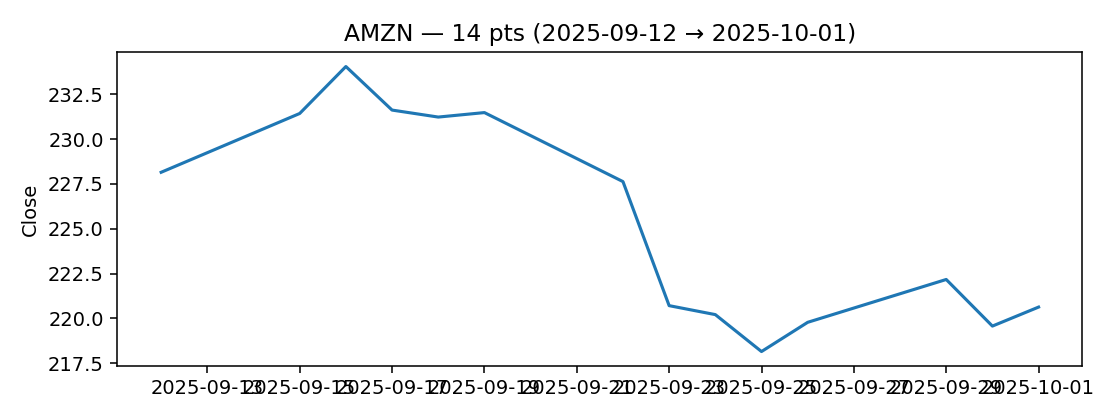
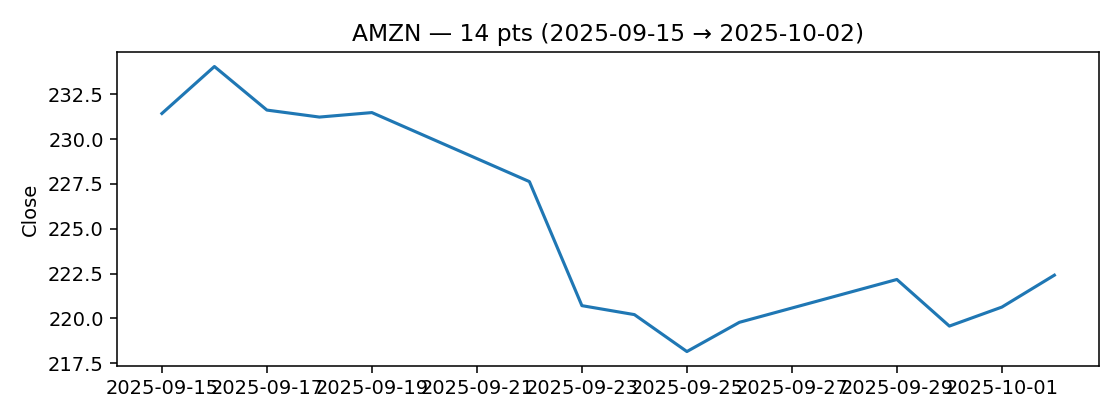
chore: update daily report 2025-10-03 09:01

diff --git a/docs/daily_report.html b/docs/daily_report.html
@@ -108,7 +108,7 @@
   <header>
     <div>
       <h1>Daily Study & News Companion</h1>
-      <div class="sub">2025-10-02 08:25 · TZ: CST</div>
+      <div class="sub">2025-10-03 08:18 · TZ: CST</div>
     </div>
     <button class="btn" id="themeBtn">🌓 Tema</button>
   </header>
@@ -150,8 +150,8 @@
           </div>
           <div class="mkt-body">
             <div class="metrics-row">
-          <div class="kv"><span>Last</span><b>220.63</b></div>
-          <div class="kv"><span>d/d</span><b class="down">-3.30%</b></div>
+          <div class="kv"><span>Last</span><b>222.41</b></div>
+          <div class="kv"><span>d/d</span><b class="down">-3.90%</b></div>
           <div class="kv"><span>Mín</span><b>218.15</b></div>
           <div class="kv"><span>Máx</span><b>234.05</b></div>
           <div class="kv"><span>σ</span><b>5.56</b></div>
@@ -167,11 +167,11 @@
           </div>
           <div class="mkt-body">
             <div class="metrics-row">
-          <div class="kv"><span>Last</span><b>519.71</b></div>
-          <div class="kv"><span>d/d</span><b class="up">1.92%</b></div>
+          <div class="kv"><span>Last</span><b>515.74</b></div>
+          <div class="kv"><span>d/d</span><b class="up">0.07%</b></div>
           <div class="kv"><span>Mín</span><b>507.03</b></div>
           <div class="kv"><span>Máx</span><b>519.71</b></div>
-          <div class="kv"><span>σ</span><b>3.93</b></div>
+          <div class="kv"><span>σ</span><b>3.94</b></div>
         </div>
             <div class="chart"><img src="charts/MSFT_close.png" alt="MSFT chart" loading="lazy"/></div>
           </div>
@@ -184,13 +184,30 @@
           </div>
           <div class="mkt-body">
             <div class="metrics-row">
-          <div class="kv"><span>Last</span><b>187.24</b></div>
-          <div class="kv"><span>d/d</span><b class="up">5.30%</b></div>
+          <div class="kv"><span>Last</span><b>188.89</b></div>
+          <div class="kv"><span>d/d</span><b class="up">6.27%</b></div>
           <div class="kv"><span>Mín</span><b>170.29</b></div>
-          <div class="kv"><span>Máx</span><b>187.24</b></div>
-          <div class="kv"><span>σ</span><b>4.39</b></div>
+          <div class="kv"><span>Máx</span><b>188.89</b></div>
+          <div class="kv"><span>σ</span><b>5.08</b></div>
         </div>
             <div class="chart"><img src="charts/NVDA_close.png" alt="NVDA chart" loading="lazy"/></div>
+          </div>
+        </div>
+        
+        <div class="mkt-card">
+          <div class="mkt-head">
+            <div class="ticker">TSLA</div>
+            <button class="mini pill" onclick="this.closest('.mkt-card').classList.toggle('big')">↕</button>
+          </div>
+          <div class="mkt-body">
+            <div class="metrics-row">
+          <div class="kv"><span>Last</span><b>436.00</b></div>
+          <div class="kv"><span>d/d</span><b class="up">6.33%</b></div>
+          <div class="kv"><span>Mín</span><b>410.04</b></div>
+          <div class="kv"><span>Máx</span><b>459.46</b></div>
+          <div class="kv"><span>σ</span><b>12.69</b></div>
+        </div>
+            <div class="chart"><img src="charts/TSLA_close.png" alt="TSLA chart" loading="lazy"/></div>
           </div>
         </div>
         
@@ -201,11 +218,11 @@
           </div>
           <div class="mkt-body">
             <div class="metrics-row">
-          <div class="kv"><span>Last</span><b>668.45</b></div>
-          <div class="kv"><span>d/d</span><b class="up">1.68%</b></div>
-          <div class="kv"><span>Mín</span><b>657.41</b></div>
-          <div class="kv"><span>Máx</span><b>668.45</b></div>
-          <div class="kv"><span>σ</span><b>3.15</b></div>
+          <div class="kv"><span>Last</span><b>669.22</b></div>
+          <div class="kv"><span>d/d</span><b class="up">1.26%</b></div>
+          <div class="kv"><span>Mín</span><b>658.05</b></div>
+          <div class="kv"><span>Máx</span><b>669.22</b></div>
+          <div class="kv"><span>σ</span><b>3.29</b></div>
         </div>
             <div class="chart"><img src="charts/^GSPC_close.png" alt="^GSPC chart" loading="lazy"/></div>
           </div>
@@ -233,38 +250,38 @@
             <ul class="news-list">
               <li class="news-item" data-topic="AI">
                 <span class="dot"></span>
-                <a href="https://www.bloomberg.com/news/articles/2025-10-02/tech-stocks-jump-on-ai-euphoria-as-traders-brush-off-shutdown" target="_blank" rel="noreferrer">Tech Stocks Jump on AI Euphoria as Traders Brush Off Shutdown</a>
-                <div class="meta">2025-10-02 13:41 · <span class="src">Natalia Kniazhevich</span></div>
+                <a href="https://www.bloomberg.com/news/articles/2025-10-03/us-stocks-edge-higher-on-optimism-over-ai-momentum-fed-easing" target="_blank" rel="noreferrer">US Stocks Edge Higher on Optimism Over AI Momentum, Fed Easing</a>
+                <div class="meta">2025-10-03 13:38 · <span class="src">Natalia Kniazhevich</span></div>
               </li>
             
               <li class="news-item" data-topic="AI">
                 <span class="dot"></span>
-                <a href="https://www.bloomberg.com/news/videos/2025-10-02/the-opening-trade-10-2-video" target="_blank" rel="noreferrer">OpenAI Becomes Most Valuable Startup, US Shutdown Enters 2nd Day | The Opening Trade 10/2</a>
-                <div class="meta">2025-10-02 12:18 · <span class="src">www.bloomberg.com</span></div>
+                <a href="https://www.bloomberg.com/news/articles/2025-10-03/bezos-says-ai-spending-boom-is-a-bubble-that-will-pay-off" target="_blank" rel="noreferrer">Bezos Says AI Spending Boom Is a Bubble That Will Pay Off</a>
+                <div class="meta">2025-10-03 12:46 · <span class="src">Alberto Brambilla</span></div>
               </li>
             
               <li class="news-item" data-topic="AI">
                 <span class="dot"></span>
-                <a href="https://www.bloomberg.com/news/articles/2025-10-02/caterpillar-emerges-as-unlikely-ai-winner-on-turbine-demand" target="_blank" rel="noreferrer">Caterpillar Emerges as Unlikely AI Winner on Turbine Demand</a>
-                <div class="meta">2025-10-02 11:00 · <span class="src">Matthew Griffin</span></div>
+                <a href="https://www.bloomberg.com/news/videos/2025-10-03/the-opening-trade-10-3-video" target="_blank" rel="noreferrer">BBVA & Sabadell Clash as Bid Enters Final Days, European Stocks Record High | The Opening Trade 10/3</a>
+                <div class="meta">2025-10-03 11:42 · <span class="src">www.bloomberg.com</span></div>
               </li>
             
               <li class="news-item" data-topic="AI">
                 <span class="dot"></span>
-                <a href="https://www.bloomberg.com/news/articles/2025-10-02/google-translate-rival-deepl-is-said-to-explore-us-ipo" target="_blank" rel="noreferrer">Google Translate Rival DeepL Explores US IPO</a>
-                <div class="meta">2025-10-02 07:05 · <span class="src">Vinicy Chan, Swetha Gopinath</span></div>
+                <a href="https://www.bloomberg.com/news/newsletters/2025-10-03/openai-s-sora-video-app-raises-risk-for-rampant-misinformation" target="_blank" rel="noreferrer">OpenAI’s Sora Video App Heightens Risk for Misinformation</a>
+                <div class="meta">2025-10-03 11:03 · <span class="src">Rachel Metz</span></div>
               </li>
             
               <li class="news-item" data-topic="AI">
                 <span class="dot"></span>
-                <a href="https://www.bloomberg.com/news/articles/2025-10-02/global-chipmakers-add-200-billion-in-record-rally-on-ai-frenzy" target="_blank" rel="noreferrer">Chipmakers Add $200 Billion in Global Rally on AI Frenzy</a>
-                <div class="meta">2025-10-02 06:59 · <span class="src">Winnie Hsu</span></div>
+                <a href="https://www.bloomberg.com/news/articles/2025-10-03/european-stocks-set-for-best-week-since-may-on-ai-optimism" target="_blank" rel="noreferrer">European Stocks Set for Best Week Since May on AI Optimism</a>
+                <div class="meta">2025-10-03 07:17 · <span class="src">Levin Stamm</span></div>
               </li>
             
               <li class="news-item" data-topic="AI">
                 <span class="dot"></span>
-                <a href="https://www.bloomberg.com/news/articles/2025-10-01/stock-market-today-dow-s-p-live-updates" target="_blank" rel="noreferrer">US Stocks Rally to Records on OpenAI Optimism: Markets Wrap</a>
-                <div class="meta">2025-10-01 22:30 · <span class="src">Cristin Flanagan</span></div>
+                <a href="https://www.bloomberg.com/news/articles/2025-10-03/emerging-markets-pause-for-breath-as-us-shutdown-delays-data" target="_blank" rel="noreferrer">Emerging Market Stocks Extend Rally as Investors Bet on AI Deals</a>
+                <div class="meta">2025-10-03 06:20 · <span class="src">Malavika Kaur Makol, Mpho Hlakudi</span></div>
               </li>
             </ul>
           </div>
@@ -274,38 +291,38 @@
             <ul class="news-list">
               <li class="news-item" data-topic="Fintech">
                 <span class="dot"></span>
-                <a href="https://www.bloomberg.com/news/articles/2025-10-02/abu-dhabi-royal-s-ihc-buys-1-billion-stake-in-india-shadow-bank" target="_blank" rel="noreferrer">Abu Dhabi Royal’s IHC Buys $1 Billion Stake in India Shadow Bank</a>
-                <div class="meta">2025-10-02 13:40 · <span class="src">Baiju Kalesh</span></div>
+                <a href="https://www.bloomberg.com/news/articles/2025-10-03/doubleline-says-shutdown-adds-fuel-to-popular-treasuries-trade" target="_blank" rel="noreferrer">DoubleLine Says Shutdown Adds Fuel to Popular Treasuries Trade</a>
+                <div class="meta">2025-10-03 13:00 · <span class="src">Liz Capo McCormick</span></div>
               </li>
             
               <li class="news-item" data-topic="Fintech">
                 <span class="dot"></span>
-                <a href="https://www.bloomberg.com/news/articles/2025-10-02/new-african-ratings-agency-to-be-headquartered-in-mauritius" target="_blank" rel="noreferrer">New African Ratings Agency to Be Headquartered in Mauritius</a>
-                <div class="meta">2025-10-02 11:11 · <span class="src">Alister Bull</span></div>
+                <a href="https://www.bloomberg.com/news/articles/2025-10-03/hsbc-is-said-to-lose-another-top-ipo-banker-for-the-middle-east" target="_blank" rel="noreferrer">HSBC Is Said to Lose Another Top IPO Banker for the Middle East</a>
+                <div class="meta">2025-10-03 12:17 · <span class="src">Nicolas Parasie, Laura Gardner Cuesta</span></div>
               </li>
             
               <li class="news-item" data-topic="Fintech">
                 <span class="dot"></span>
-                <a href="https://www.ft.com/content/5ac4850f-659d-4c05-bf80-41af7ca4653f" target="_blank" rel="noreferrer">Thames Water creditors offer 25% debt write-off for more lenient targets</a>
-                <div class="meta">2025-10-02 11:04 · <span class="src">www.ft.com</span></div>
+                <a href="https://www.bloomberg.com/news/articles/2025-10-03/bofa-s-raedler-sees-european-stocks-slumping-more-than-10" target="_blank" rel="noreferrer">BofA’s Raedler Sees European Stocks Slumping More Than 10%</a>
+                <div class="meta">2025-10-03 11:31 · <span class="src">Levin Stamm</span></div>
               </li>
             
               <li class="news-item" data-topic="Fintech">
                 <span class="dot"></span>
-                <a href="https://www.bloomberg.com/news/articles/2025-10-02/turkey-anticipates-manageable-fine-to-settle-halkbank-us-dispute" target="_blank" rel="noreferrer">Turkey Anticipates Manageable Fine to Settle Halkbank-US Dispute</a>
-                <div class="meta">2025-10-02 09:44 · <span class="src">Firat Kozok</span></div>
+                <a href="https://www.bloomberg.com/news/articles/2025-10-03/reliance-is-said-to-hold-talks-with-banks-for-record-jio-ipo" target="_blank" rel="noreferrer">Reliance Is Said to Hold Talks With Banks for Record Jio IPO</a>
+                <div class="meta">2025-10-03 10:23 · <span class="src">Sanjai P R, Baiju Kalesh</span></div>
               </li>
             
               <li class="news-item" data-topic="Fintech">
                 <span class="dot"></span>
-                <a href="https://www.bloomberg.com/news/articles/2025-10-01/what-trump-s-100-000-h-1b-visa-fee-means-for-india-s-top-talent-podcast" target="_blank" rel="noreferrer">Indian Workers Face H-1B Crisis as Trump Unveils $100,000 Visa Fee</a>
-                <div class="meta">2025-10-01 21:15 · <span class="src">Naomi Ng, Yang Yang, K Oanh Ha</span></div>
+                <a href="https://www.bloomberg.com/news/articles/2025-10-03/indian-finance-minister-says-economy-can-withstand-global-shocks" target="_blank" rel="noreferrer">India’s Top Economic Officials Talk Up Growth as US Tariffs Hit</a>
+                <div class="meta">2025-10-03 06:36 · <span class="src">Ruchi Bhatia</span></div>
               </li>
             
               <li class="news-item" data-topic="Fintech">
                 <span class="dot"></span>
-                <a href="https://www.bloomberg.com/news/articles/2025-10-01/google-hired-lazard-for-potential-ad-exchange-sale-in-2020" target="_blank" rel="noreferrer">Google Hired Lazard for Potential Ad Exchange Sale in 2020</a>
-                <div class="meta">2025-10-01 17:54 · <span class="src">Carmen Arroyo, Leah Nylen</span></div>
+                <a href="https://www.bloomberg.com/news/articles/2025-10-02/stock-market-today-dow-s-p-live-updates" target="_blank" rel="noreferrer">US Bond Yields Climb as Goolsbee Counsels Caution: Markets Wrap</a>
+                <div class="meta">2025-10-02 22:22 · <span class="src">Cristin Flanagan</span></div>
               </li>
             </ul>
           </div>
@@ -315,38 +332,38 @@
             <ul class="news-list">
               <li class="news-item" data-topic="General">
                 <span class="dot"></span>
-                <a href="https://www.bloomberg.com/news/videos/2025-10-02/berkshire-buying-occidental-s-chemical-unit-in-9-7-billion-deal" target="_blank" rel="noreferrer">Berkshire in $9.7 Billion Deal to Buy Occidental Unit</a>
-                <div class="meta">2025-10-02 13:45 · <span class="src">www.bloomberg.com</span></div>
+                <a href="https://www.bloomberg.com/news/articles/2025-10-03/milei-s-48-hour-tariff-pause-spurs-record-surge-in-crop-exports" target="_blank" rel="noreferrer">Milei’s 48-Hour Tariff Pause Spurs Record Surge in Crop Exports</a>
+                <div class="meta">2025-10-03 13:50 · <span class="src">Jonathan Gilbert</span></div>
               </li>
             
               <li class="news-item" data-topic="General">
                 <span class="dot"></span>
-                <a href="https://www.bloomberg.com/news/articles/2025-10-02/romania-to-offer-paid-military-crash-course-to-boost-its-army" target="_blank" rel="noreferrer">Romania to Offer Paid Military Crash Course to Boost Its Army</a>
-                <div class="meta">2025-10-02 13:41 · <span class="src">Andra Timu</span></div>
+                <a href="https://www.bloomberg.com/news/articles/2025-10-03/eni-totalenergies-lng-moves-drive-mozambique-bond-rally" target="_blank" rel="noreferrer">Mozambique Bond Yields Hit 2022 Low on LNG Project Momentum</a>
+                <div class="meta">2025-10-03 13:34 · <span class="src">Mpho Hlakudi</span></div>
               </li>
             
               <li class="news-item" data-topic="General">
                 <span class="dot"></span>
-                <a href="https://www.bloomberg.com/news/articles/2025-10-02/dye-durham-s-ex-cfo-ramps-up-pressure-on-board-to-sell-company" target="_blank" rel="noreferrer">Dye &amp; Durham’s Ex-CFO Ramps Up Pressure on Board to Sell Company</a>
-                <div class="meta">2025-10-02 13:19 · <span class="src">Paula Sambo</span></div>
+                <a href="https://www.bloomberg.com/news/articles/2025-10-03/pharma-stocks-eye-best-week-in-16-years-as-trump-overhang-eases" target="_blank" rel="noreferrer">Pharma Stocks Eye Best Week in 16 Years as Trump Overhang Eases</a>
+                <div class="meta">2025-10-03 13:28 · <span class="src">Angel Adegbesan</span></div>
               </li>
             
               <li class="news-item" data-topic="General">
                 <span class="dot"></span>
-                <a href="https://www.bloomberg.com/news/videos/2025-10-02/us-has-a-stagnant-labor-market-adp-s-richardson-says-video" target="_blank" rel="noreferrer">US Has a Stagnant Labor Market, ADP’s Richardson Says</a>
-                <div class="meta">2025-10-02 13:19 · <span class="src">www.bloomberg.com</span></div>
+                <a href="https://www.bloomberg.com/news/articles/2025-10-03/canadian-funds-bet-on-nation-building-amid-us-tariffs-taunts" target="_blank" rel="noreferrer">Canadian Funds Bet on ‘Nation-Building’ Amid US Tariffs, Taunts</a>
+                <div class="meta">2025-10-03 13:15 · <span class="src">Geoffrey Morgan</span></div>
               </li>
             
               <li class="news-item" data-topic="General">
                 <span class="dot"></span>
-                <a href="https://www.bloomberg.com/news/articles/2025-10-02/ontario-teachers-eyes-logoplaste-exit-at-2-billion-valuation" target="_blank" rel="noreferrer">Ontario Teachers’ Eyes Logoplaste Exit at $2 Billion Valuation</a>
-                <div class="meta">2025-10-02 13:18 · <span class="src">Henrique Almeida, Paula Sambo</span></div>
+                <a href="https://www.bloomberg.com/news/articles/2025-10-03/stock-bulls-can-t-get-enough-of-s-p-as-rally-enters-manic-zone" target="_blank" rel="noreferrer">Stock Bulls Can’t Get Enough of S&amp;P as Rally Enters ‘Manic’ Zone</a>
+                <div class="meta">2025-10-03 09:30 · <span class="src">Natalia Kniazhevich</span></div>
               </li>
             
               <li class="news-item" data-topic="General">
                 <span class="dot"></span>
-                <a href="https://www.bloomberg.com/news/articles/2025-10-02/amazon-s-stock-appeal-hit-by-intensifying-cloud-competition" target="_blank" rel="noreferrer">Amazon’s Stock Appeal Hit by Intensifying Cloud Competition</a>
-                <div class="meta">2025-10-02 08:55 · <span class="src">Ryan Vlastelica</span></div>
+                <a href="https://www.bloomberg.com/news/articles/2025-10-02/first-brands-lenders-hand-lifeline-to-effectively-a-black-box" target="_blank" rel="noreferrer">First Brands Group Lenders Provide Lifeline to ‘A Black Box’</a>
+                <div class="meta">2025-10-02 22:09 · <span class="src">Jonathan Randles</span></div>
               </li>
             </ul>
           </div>
@@ -356,38 +373,38 @@
             <ul class="news-list">
               <li class="news-item" data-topic="Machine Learning">
                 <span class="dot"></span>
-                <a href="https://www.bloomberg.com/news/videos/2025-10-02/tesla-sales-surge-just-before-us-tax-credit-expires-video" target="_blank" rel="noreferrer">Tesla Sales Surge Just Before US Tax Credit Expires</a>
-                <div class="meta">2025-10-02 13:45 · <span class="src">www.bloomberg.com</span></div>
+                <a href="https://www.bloomberg.com/news/articles/2025-10-03/poland-plans-record-quarterly-zloty-bond-sales-as-debt-grows" target="_blank" rel="noreferrer">Poland Plans Record Quarterly Zloty-Bond Sales as Debt Grows</a>
+                <div class="meta">2025-10-03 11:55 · <span class="src">Konrad Krasuski</span></div>
               </li>
             
               <li class="news-item" data-topic="Machine Learning">
                 <span class="dot"></span>
-                <a href="https://www.bloomberg.com/news/articles/2025-10-02/seaborne-oil-cargoes-soar-as-top-exporters-ramp-up-flows" target="_blank" rel="noreferrer">Seaborne Oil Cargoes Soar as Top Exporters Ramp Up Flows</a>
-                <div class="meta">2025-10-02 12:33 · <span class="src">Julian Lee, Sherry Su, Verity Ratcliffe, Robert Tuttle, Christopher Charleston, Anthony Di Paola, Prejula Prem, Lucia Kassai, Bill Lehane</span></div>
+                <a href="https://www.bloomberg.com/news/articles/2025-10-03/russia-s-oil-revenue-falls-by-fifth-on-weak-crude-prices-strong-ruble" target="_blank" rel="noreferrer">Russia’s Oil Revenue Falls by Fifth on Weak Crude Prices, Strong Ruble</a>
+                <div class="meta">2025-10-03 11:44 · <span class="src">Alaric Nightingale</span></div>
               </li>
             
               <li class="news-item" data-topic="Machine Learning">
                 <span class="dot"></span>
-                <a href="https://www.bloomberg.com/news/videos/2025-10-02/us-employers-scale-back-hiring-job-cut-announcements-video" target="_blank" rel="noreferrer">US Employers Scale Back Hiring, Job Cut Announcements</a>
-                <div class="meta">2025-10-02 12:09 · <span class="src">www.bloomberg.com</span></div>
+                <a href="https://www.bloomberg.com/news/articles/2025-10-03/ecb-should-cut-rates-to-boost-economy-italy-s-finance-chief-says" target="_blank" rel="noreferrer">ECB Should Cut Rates to Boost Economy, Italy’s Finance Chief Says</a>
+                <div class="meta">2025-10-03 11:37 · <span class="src">Alessandra Migliaccio</span></div>
               </li>
             
               <li class="news-item" data-topic="Machine Learning">
                 <span class="dot"></span>
-                <a href="https://www.bloomberg.com/news/articles/2025-10-02/france-says-detaining-oil-tankers-will-help-kill-russia-s-shadow-fleet" target="_blank" rel="noreferrer">France Says Detaining Oil Tankers Will Help Kill Russia’s Shadow Fleet</a>
-                <div class="meta">2025-10-02 11:39 · <span class="src">James Regan, Gaspard Sebag, Alex Longley</span></div>
+                <a href="https://www.ft.com/content/41e8a268-9504-4597-8576-280dda40e90d" target="_blank" rel="noreferrer">Santander UK chief executive departs ahead of TSB merger</a>
+                <div class="meta">2025-10-03 10:21 · <span class="src">www.ft.com</span></div>
               </li>
             
               <li class="news-item" data-topic="Machine Learning">
                 <span class="dot"></span>
-                <a href="https://www.bloomberg.com/news/videos/2025-10-02/queen-maxima-of-the-netherlands-on-financial-health" target="_blank" rel="noreferrer">Queen Máxima of the Netherlands on Financial Health</a>
-                <div class="meta">2025-10-02 11:23 · <span class="src">www.bloomberg.com</span></div>
+                <a href="https://www.bloomberg.com/news/articles/2025-10-02/amazon-delivery-drone-collision-near-phoenix-probed-by-faa-ntsb" target="_blank" rel="noreferrer">Amazon to Resume Drone Deliveries Near Phoenix After Crashes</a>
+                <div class="meta">2025-10-02 19:47 · <span class="src">Matt Day, Allyson Versprille</span></div>
               </li>
             
               <li class="news-item" data-topic="Machine Learning">
                 <span class="dot"></span>
-                <a href="https://www.bloomberg.com/news/newsletters/2025-10-02/meta-mines-your-chatbot-discussions-to-serve-more-personal-ads" target="_blank" rel="noreferrer">Meta Mines Your Chatbot Discussions to Serve More Personal Ads</a>
-                <div class="meta">2025-10-02 11:02 · <span class="src">Riley Griffin</span></div>
+                <a href="https://www.bloomberg.com/news/newsletters/2025-10-02/taylor-swift-s-new-album-will-be-promoted-by-everyone-except-taylor-swift" target="_blank" rel="noreferrer">Taylor Swift’s New Album Will Be Promoted by Everyone Except Taylor Swift</a>
+                <div class="meta">2025-10-02 18:00 · <span class="src">Ashley Carman</span></div>
               </li>
             </ul>
           </div>
@@ -397,7 +414,7 @@
     </main>
   </div>
 
-  <footer>Generado localmente · 2025-10-02 08:25</footer>
+  <footer>Generado localmente · 2025-10-03 08:18</footer>
 
   <script>
     'use strict';
